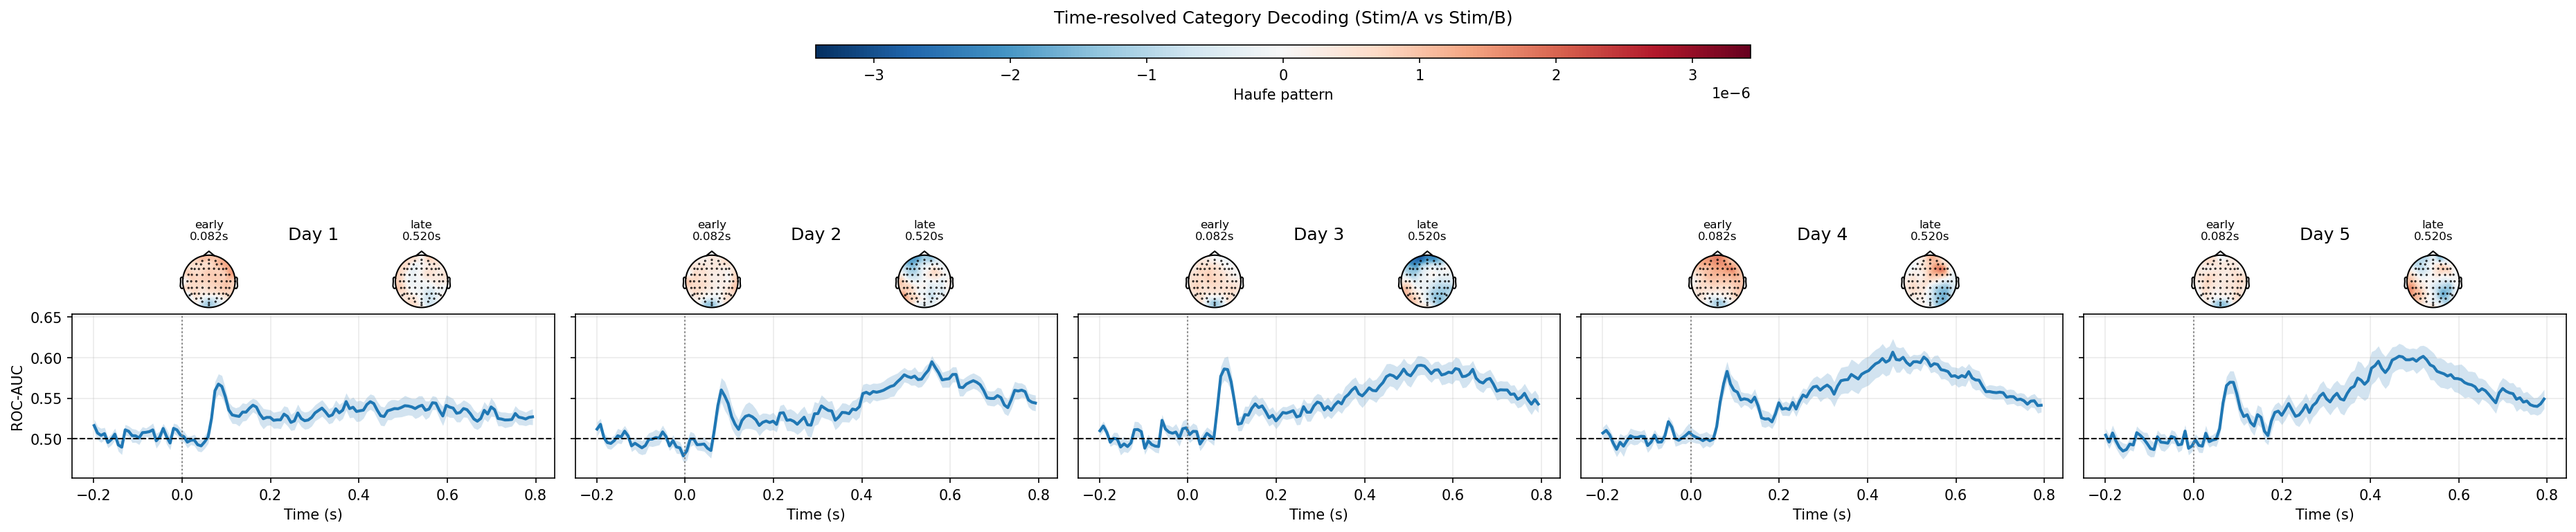
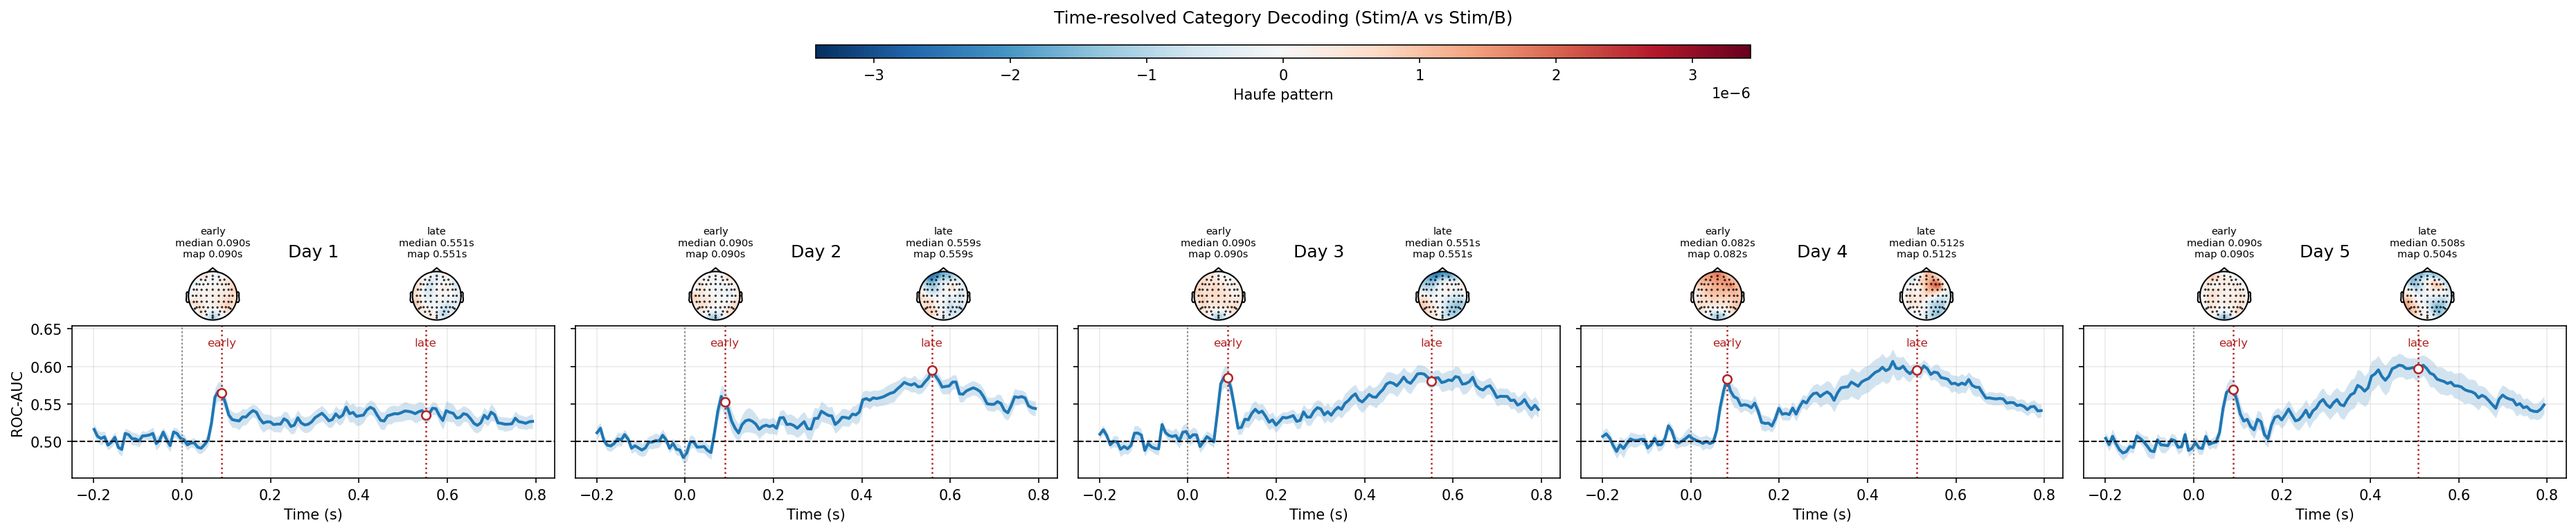
new figs

diff --git a/code/util_func_mvpa.py b/code/util_func_mvpa.py
@@ -1411,6 +1411,7 @@ def save_fig_mvpa_time_resolved(**kwargs):
     figures_dir = Path(figures_dir)
     figures_dir.mkdir(parents=True, exist_ok=True)
 
+    session_csv = output_dir / "mvpa_session_timecourse.csv"
     day_means_csv = output_dir / "mvpa_day_means_timecourse.csv"
     day_effect_csv = output_dir / "mvpa_day_effect_per_time.csv"
     if (not day_means_csv.exists()) or (not day_effect_csv.exists()):
@@ -1421,22 +1422,41 @@ def save_fig_mvpa_time_resolved(**kwargs):
     fig_day_panels = figures_dir / "mvpa_auc_by_day_panels.png"
     fig_day_slope = figures_dir / "mvpa_day_slope_timecourse.png"
     haufe_day_mean_csv = output_dir / "mvpa_haufe_day_mean_channel_time.csv"
+    haufe_session_csv = output_dir / "mvpa_haufe_session_channel_time.csv"
     haufe_channel_pos_csv = output_dir / "mvpa_haufe_channel_positions.csv"
+    haufe_peak_times_csv = output_dir / "mvpa_haufe_subject_day_peak_times.csv"
+    haufe_stability_subject_csv = output_dir / "mvpa_haufe_peak_stability_subject.csv"
+    haufe_stability_summary_csv = output_dir / "mvpa_haufe_peak_stability_summary.csv"
+    fig_haufe_stability = figures_dir / "mvpa_haufe_peak_stability.png"
 
-    def _detect_peak_times(df):
-        d_avg = (
-            df.groupby("time_sec", as_index=False)["auc_mean"]
-            .mean()
-            .sort_values("time_sec")
-        )
-        peaks = []
-        for lo, hi, label in [(0.0, 0.20, "early"), (0.35, 0.80, "late")]:
-            d_win = d_avg[(d_avg["time_sec"] >= lo) & (d_avg["time_sec"] <= hi)]
-            if d_win.empty:
-                continue
-            row = d_win.loc[d_win["auc_mean"].idxmax()]
-            peaks.append((float(row["time_sec"]), label))
-        return peaks
+    def _detect_subject_day_peak_times():
+        if not session_csv.exists():
+            return pd.DataFrame()
+        d_session = pd.read_csv(session_csv)
+        if d_session.empty:
+            return pd.DataFrame()
+        rows = []
+        for (subject, day), d_sd in d_session.groupby(["subject", "day"]):
+            d_sd = d_sd.sort_values("time_sec")
+            for lo, hi, label in [(0.0, 0.20, "early"), (0.35, 0.80, "late")]:
+                d_win = d_sd[(d_sd["time_sec"] >= lo) & (d_sd["time_sec"] <= hi)]
+                if d_win.empty:
+                    continue
+                row = d_win.loc[d_win["auc"].idxmax()]
+                rows.append(
+                    {
+                        "subject": int(subject),
+                        "day": int(day),
+                        "peak": label,
+                        "peak_time_sec": float(row["time_sec"]),
+                        "peak_auc": float(row["auc"]),
+                        "window_start_sec": float(lo),
+                        "window_end_sec": float(hi),
+                    }
+                )
+        peak_df = pd.DataFrame(rows).sort_values(["day", "peak", "subject"])
+        peak_df.to_csv(haufe_peak_times_csv, index=False)
+        return peak_df
 
     def _make_haufe_info(pos_df):
         ch_names = pos_df["channel"].tolist()
@@ -1449,16 +1469,167 @@ def save_fig_mvpa_time_resolved(**kwargs):
         info.set_montage(montage, on_missing="ignore")
         return info, ch_names
 
+    def _vector_corr(x_vec, y_vec):
+        valid = np.isfinite(x_vec) & np.isfinite(y_vec)
+        if int(np.sum(valid)) < 3:
+            return np.nan
+        x_use = x_vec[valid] - np.nanmean(x_vec[valid])
+        y_use = y_vec[valid] - np.nanmean(y_vec[valid])
+        denom = np.sqrt(np.sum(x_use ** 2) * np.sum(y_use ** 2))
+        if (not np.isfinite(denom)) or denom <= np.finfo(float).eps:
+            return np.nan
+        return float(np.sum(x_use * y_use) / denom)
+
+    def _write_haufe_stability(peak_df):
+        if (not haufe_session_csv.exists()) or peak_df.empty:
+            return pd.DataFrame(), pd.DataFrame()
+        d_sub = pd.read_csv(haufe_session_csv)
+        if d_sub.empty:
+            return pd.DataFrame(), pd.DataFrame()
+        rows = []
+        for day in sorted(peak_df["day"].dropna().unique().astype(int)):
+            d_day = d_sub[d_sub["day"] == day].copy()
+            times = np.sort(d_day["time_sec"].dropna().unique().astype(float))
+            if len(times) == 0:
+                continue
+            for peak_label in ["early", "late"]:
+                d_peak_meta = peak_df[(peak_df["day"] == day) & (peak_df["peak"] == peak_label)]
+                if d_peak_meta.empty:
+                    continue
+                vec_rows = []
+                for _, peak_row in d_peak_meta.iterrows():
+                    subject = int(peak_row["subject"])
+                    peak_time = float(peak_row["peak_time_sec"])
+                    t_show = float(times[int(np.argmin(np.abs(times - peak_time)))])
+                    d_peak = d_day[
+                        (d_day["subject"] == subject) & np.isclose(d_day["time_sec"], t_show)
+                    ].copy()
+                    if d_peak.empty:
+                        continue
+                    vals = (
+                        d_peak.set_index("channel")
+                        .reindex(haufe_ch_names)["pattern"]
+                        .to_numpy(dtype=float)
+                    )
+                    vec_rows.append(
+                        {
+                            "subject": subject,
+                            "peak_time_sec": peak_time,
+                            "used_time_sec": t_show,
+                            "values": vals,
+                        }
+                    )
+                if len(vec_rows) < 3:
+                    continue
+                mat = pd.DataFrame(
+                    [r["values"] for r in vec_rows],
+                    index=[r["subject"] for r in vec_rows],
+                    columns=haufe_ch_names,
+                )
+                if mat.shape[0] < 3:
+                    continue
+                values = mat.to_numpy(dtype=float)
+                subjects = mat.index.to_numpy()
+                for i_sub, subject in enumerate(subjects):
+                    x_vec = values[i_sub, :]
+                    loo = np.delete(values, i_sub, axis=0)
+                    with np.errstate(invalid="ignore"):
+                        y_vec = np.nanmean(loo, axis=0)
+                    r_val = _vector_corr(x_vec, y_vec)
+                    rows.append(
+                        {
+                            "subject": int(subject),
+                            "day": int(day),
+                            "peak": peak_label,
+                            "subject_peak_time_sec": float(vec_rows[i_sub]["peak_time_sec"]),
+                            "used_time_sec": float(vec_rows[i_sub]["used_time_sec"]),
+                            "loo_pattern_r": r_val,
+                            "n_channels": int(np.sum(np.isfinite(x_vec) & np.isfinite(y_vec))),
+                        }
+                    )
+        subject_df = pd.DataFrame(rows)
+        if subject_df.empty:
+            subject_df.to_csv(haufe_stability_subject_csv, index=False)
+            pd.DataFrame().to_csv(haufe_stability_summary_csv, index=False)
+            return subject_df, pd.DataFrame()
+        summary_df = (
+            subject_df.groupby(["day", "peak"], as_index=False)
+            .agg(
+                median_peak_time_sec=("subject_peak_time_sec", "median"),
+                q25_peak_time_sec=("subject_peak_time_sec", lambda x: float(np.nanpercentile(x, 25))),
+                q75_peak_time_sec=("subject_peak_time_sec", lambda x: float(np.nanpercentile(x, 75))),
+                median_used_time_sec=("used_time_sec", "median"),
+                median_r=("loo_pattern_r", "median"),
+                q25_r=("loo_pattern_r", lambda x: float(np.nanpercentile(x, 25))),
+                q75_r=("loo_pattern_r", lambda x: float(np.nanpercentile(x, 75))),
+                mean_r=("loo_pattern_r", "mean"),
+                prop_positive=("loo_pattern_r", lambda x: float(np.nanmean(np.asarray(x) > 0))),
+                n_subjects=("subject", "nunique"),
+            )
+            .sort_values(["day", "peak"])
+        )
+        subject_df.to_csv(haufe_stability_subject_csv, index=False)
+        summary_df.to_csv(haufe_stability_summary_csv, index=False)
+        return subject_df, summary_df
+
+    def _plot_haufe_stability(subject_df):
+        if subject_df.empty:
+            return
+        peak_order = [p for p in ["early", "late"] if p in set(subject_df["peak"])]
+        days_plot = sorted(subject_df["day"].dropna().unique().astype(int).tolist())
+        fig, axes = plt.subplots(1, len(peak_order), figsize=(4.5 * len(peak_order), 4), sharey=True, squeeze=False)
+        rng = np.random.default_rng(42)
+        for ax, peak in zip(axes.ravel(), peak_order):
+            data = []
+            labels = []
+            for day in days_plot:
+                vals = subject_df[
+                    (subject_df["day"] == day) & (subject_df["peak"] == peak)
+                ]["loo_pattern_r"].dropna().to_numpy(dtype=float)
+                data.append(vals)
+                labels.append(f"D{day}")
+            ax.boxplot(data, labels=labels, showfliers=False)
+            for i_day, vals in enumerate(data, start=1):
+                if len(vals) == 0:
+                    continue
+                jitter = rng.normal(0.0, 0.035, size=len(vals))
+                ax.scatter(np.full(len(vals), i_day) + jitter, vals, s=18, alpha=0.55, color="#2f4f4f")
+            ax.axhline(0.0, color="k", linestyle="--", linewidth=1)
+            ax.set_title(f"{peak} peak")
+            ax.set_xlabel("Day")
+            ax.grid(axis="y", alpha=0.25)
+        axes.ravel()[0].set_ylabel("Subject vs leave-one-subject-out group pattern r")
+        fig.suptitle("Haufe Pattern Stability at MVPA Peaks")
+        fig.tight_layout(rect=[0, 0, 1, 0.92])
+        fig.savefig(fig_haufe_stability, dpi=150, bbox_inches="tight")
+        plt.close(fig)
+
     haufe_df = pd.DataFrame()
     haufe_info = None
     haufe_ch_names = []
-    peak_times = []
+    peak_df = pd.DataFrame()
+    peak_medians = {}
     if haufe_day_mean_csv.exists() and haufe_channel_pos_csv.exists():
         haufe_df = pd.read_csv(haufe_day_mean_csv)
         pos_df = pd.read_csv(haufe_channel_pos_csv)
         if (not haufe_df.empty) and (not pos_df.empty):
             haufe_info, haufe_ch_names = _make_haufe_info(pos_df)
-            peak_times = _detect_peak_times(day_means_df)
+            peak_df = _detect_subject_day_peak_times()
+            if not peak_df.empty:
+                d_peak_median = (
+                    peak_df.groupby(["day", "peak"], as_index=False)["peak_time_sec"]
+                    .median()
+                    .rename(columns={"peak_time_sec": "median_peak_time_sec"})
+                )
+                peak_medians = {
+                    (int(r["day"]), str(r["peak"])): float(r["median_peak_time_sec"])
+                    for _, r in d_peak_median.iterrows()
+                }
+
+    haufe_stability_subject_df = pd.DataFrame()
+    if (not peak_df.empty) and haufe_ch_names:
+        haufe_stability_subject_df, _ = _write_haufe_stability(peak_df)
+        _plot_haufe_stability(haufe_stability_subject_df)
 
     days = sorted(day_means_df["day"].unique())
     fig, axes = plt.subplots(1, len(days), figsize=(5 * len(days), 5.2), sharey=True, squeeze=False)
@@ -1488,9 +1659,34 @@ def save_fig_mvpa_time_resolved(**kwargs):
         ax.set_xlabel("Time (s)")
         ax.set_ylim(y_lower - 0.02, y_upper + y_pad)
         ax.grid(alpha=0.25)
-        for peak_time, peak_label in peak_times:
+        day_peak_times = [
+            (peak_medians[(int(day), peak_label)], peak_label)
+            for peak_label in ["early", "late"]
+            if (int(day), peak_label) in peak_medians
+        ]
+        for peak_time, peak_label in day_peak_times:
             if x_max <= x_min:
                 continue
+            y_peak = float(np.interp(peak_time, x, y))
+            ax.axvline(peak_time, color="#b22222", linestyle=":", linewidth=1.2)
+            ax.scatter(
+                [peak_time],
+                [y_peak],
+                s=36,
+                facecolor="white",
+                edgecolor="#b22222",
+                linewidth=1.2,
+                zorder=4,
+            )
+            ax.text(
+                peak_time,
+                y_upper + (0.05 * y_pad),
+                peak_label,
+                color="#b22222",
+                fontsize=8,
+                ha="center",
+                va="bottom",
+            )
             x_frac = (peak_time - x_min) / (x_max - x_min)
             width = 0.18
             inset = ax.inset_axes(
@@ -1520,7 +1716,7 @@ def save_fig_mvpa_time_resolved(**kwargs):
                 sphere=(0.0, 0.0, 0.0, 0.095),
             )
             topomap_ims.append(im)
-            inset.set_title(f"{peak_label}\n{t_show:.3f}s", fontsize=8)
+            inset.set_title(f"{peak_label}\nmedian {peak_time:.3f}s\nmap {t_show:.3f}s", fontsize=7)
     axes.ravel()[0].set_ylabel("ROC-AUC")
     fig.suptitle("Time-resolved Category Decoding (Stim/A vs Stim/B)")
     if topomap_ims:
@@ -1550,7 +1746,15 @@ def save_fig_mvpa_time_resolved(**kwargs):
     fig.tight_layout()
     fig.savefig(fig_day_slope, dpi=150, bbox_inches="tight")
     plt.close(fig)
-    return {"figure_paths": {"day_panels": fig_day_panels, "day_slope": fig_day_slope}}
+    return {
+        "figure_paths": {
+            "day_panels": fig_day_panels,
+            "day_slope": fig_day_slope,
+            "haufe_stability": fig_haufe_stability,
+        },
+        "haufe_stability_subject_csv": haufe_stability_subject_csv,
+        "haufe_stability_summary_csv": haufe_stability_summary_csv,
+    }
 
 
 def run_mvpa_temporal_generalization(**kwargs):
